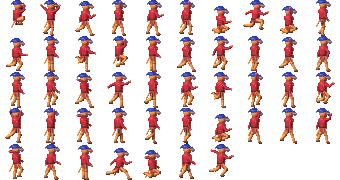
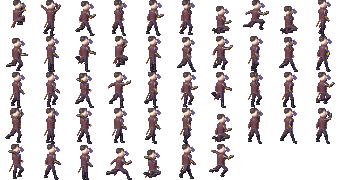
Kaspar neu gestaltet: aus dem Holz-Pinocchio mit Zipfelmütze wird ein düsterer Uhrwerk-Automat im Belle-Époque-Stil – Porzellangesicht, dunkles Haar mit Strähnen, ein Bernsteinauge, bordeauxbrauner Gehrock mit langen Schößen, hohem Kragen und Messingknöpfen über Hemd und Krawatte, ein Arm aus Messin

diff --git a/js/hero.js b/js/hero.js
@@ -28,6 +28,9 @@ const HEROES = (() => {
     belly: ['#3c4c14', '#6c7c28', '#a4ac48', '#d4d478', '#f4f4b4'],
     shield: ['#0c1444', '#1c2c84', '#2c48c4', '#5c7cf4', '#a4bcfc'],
     wood: ['#2c1608', '#5c3418', '#8c5a2c', '#b8844c', '#e0b07c'],
+    porc: ['#4c3c34', '#8c7868', '#b8a490', '#e0cfba', '#fcf4e8'], // Porzellan (Kaspar)
+    coat: ['#140a10', '#2c1820', '#4e3038', '#6c4450', '#8c6068'], // Gehrock
+    bootK: ['#06040a', '#16121a', '#2a2430', '#46404c', '#6c6474'],
     woodD: ['#1c0c04', '#3c200c', '#5c3418', '#7c4a24', '#9c6434'],
   };
 
@@ -40,7 +43,7 @@ const HEROES = (() => {
     zombie: ['..1121....', '.122g21...', '.gggggg2..', '1ggGGGGg..', '1gggkGGG..', '.ggGGrGGG.', '.gggGGGGG.', '..ggGmmG..', '...gGGG...', '....gg....'],
     fish: ['..rr......', '.rRrg.....', '.rgggggg..', 'rgGGGGGGg.', 'rgGGwkGGGg', '.gGGwwGGGG', '.gGGGGGmmm', '..gGGGGGG.', '...gggg...', '....gg....'],
     count: ['...1111...', '..111111..', '.11111111.', '.11pp1ppp.', '.1ppppppL.', '.1pprpprL.', '.1pppppPP.', '..pPppmp..', '...pppw...', '....pp....'],
-    kaspar: ['...1122...', '..122332..', '.12222332.', '.111111111', '.dWwwwwW..', '.dWwwewWnn', '.dWwrwwnnn', '.dWwwwwW..', '..dkkkkW..', '...dWWW...'],
+    kaspar: ['...11221..', '..1223321.', '.122333221', '.1222w2w2.', '.122dwwwW.', '.12dwwweW.', '.12dWwwwwW', '..1dWwwkW.', '...dWwwW..', '....dWW...'],
   };
   const EYE_ROW = 5;
 
@@ -62,16 +65,17 @@ const HEROES = (() => {
     icon: ['.1111..', '122221.', 'rrrrrr.', '1aesL..', '11sss..', '.111...'],
     iconPal: { 1: '#08040c', 2: '#241c30', r: '#c81c1c', a: '#9c5430', s: '#d88c5c', L: '#f4bc8c', e: '#000' },
   };
-  // Kaspar, die Marionette ohne Fäden: geschnitzt, mit langer Nase, roten Bäckchen und Zipfelmütze; dunkelrotes Wams mit
-  // Goldknöpfen, Kugelgelenke, an den Handgelenken die abgeschnittenen Fäden. Waffe: Hellebarde (größte Reichweite)
+  // Kaspar, die Marionette ohne Fäden, hat sich zum Uhrwerk-Automaten umgebaut: Porzellangesicht, dunkles Haar, ein
+  // Bernsteinauge; Gehrock mit langen Schößen und Messingknöpfen über Hemd und Krawatte, ein Arm aus Messing und Rotguss
+  // (3D-Figur: chars3d.js), Messing-Kugelgelenke, an den Handgelenken die abgeschnittenen Fäden. Waffe: Hellebarde
   const KASPAR = {
-    id: 'kaspar', head: 'kaspar', name: 'KASPAR', weapon: 'halberd', blink: 'w', hurtRow: '.dWwkkwWnn',
-    headPal: { 1: '#0c1430', 2: '#1c2c6c', 3: '#3c58b4', d: '#5c3418', W: '#a87440', w: '#d8a868', e: '#100808', r: '#c83c3c', n: '#c8945c', k: '#3c1c0c' },
-    skin: RAMP.wood, sleeve: RAMP.cloth, arm: { r: 1.6 }, thigh: RAMP.wood, boot: RAMP.woodD, legR: 0.9,
-    flap: RAMP.cloth, sash: RAMP.leather, flapTrim: RAMP.gold, torso: 'jerkin', belt: true, joints: true, strings: true, backPole: true,
-    scarf: { a: '#1c2c6c', b: '#3c58b4', d: '#0c1430', w: 2 }, // Zipfel der Mütze
-    icon: ['..122..', '.12232.', '1111111', '.Wwewnn', '.Wwrw..', '..kkW..'],
-    iconPal: { 1: '#0c1430', 2: '#1c2c6c', 3: '#3c58b4', W: '#a87440', w: '#d8a868', e: '#000', r: '#c83c3c', n: '#c8945c', k: '#3c1c0c' },
+    id: 'kaspar', head: 'kaspar', name: 'KASPAR', weapon: 'halberd', blink: 'w', hurtRow: '.12dwkkwW.',
+    headPal: { 1: '#141014', 2: '#2c2228', 3: '#4a3a40', d: '#7c6858', W: '#b8a490', w: '#e0cfba', e: '#f0a020', k: '#4c3434' },
+    skin: RAMP.porc, sleeve: RAMP.coat, arm: { r: 1.6 }, thigh: RAMP.noble, boot: RAMP.bootK, legR: 0.9,
+    flap: RAMP.coat, sash: RAMP.coat, flapTrim: RAMP.gold, torso: 'frock', joints: true, jointR: RAMP.gold, strings: true, backPole: true,
+    scarf: { a: '#6c1c2c', b: '#8c2838', d: '#2c0810', w: 2 }, // Krawattenschal weht
+    icon: ['..112..', '.12232.', '.12w2w.', '.1dwew.', '..dwwk.', '...dW..'],
+    iconPal: { 1: '#141014', 2: '#2c2228', 3: '#4a3a40', w: '#e0cfba', d: '#7c6858', W: '#b8a490', e: '#f0a020', k: '#4c3434' },
   };
   const MONSTERS = {
     skel: { id: 'skel', head: 'skull', headPal: { w: '#9c9478', W: '#e8e0c8', k: '#140c08' }, skin: RAMP.bone, arm: { r: 1.05 }, thigh: RAMP.bone, boot: RAMP.bone,
@@ -185,7 +189,7 @@ const HEROES = (() => {
         capsule(bx, by, A.hx - (A.hx - A.ex) * 0.12, A.hy - (A.hy - A.ey) * 0.12, ar - 0.05, ar - 0.15, def.arm.bracer, bias);
       }
       disc(A.hx, A.hy, Math.max(1.1, ar * 0.75), Math.max(1.1, ar * 0.75), def.skin, bias);
-      if (def.joints) disc(A.ex, A.ey, 1.15, 1.15, RAMP.woodD, bias + 0.2); // Kugelgelenk am Ellbogen
+      if (def.joints) disc(A.ex, A.ey, 1.15, 1.15, def.jointR || RAMP.woodD, bias + 0.2); // Kugelgelenk am Ellbogen
       if (def.strings) for (let k = 1; k <= 4; k++) P(A.hx + k * 0.15, A.hy + 1 + k, k % 2 ? '#d8d8e0' : '#a8a8b8'); // abgeschnittener Faden
     };
     const drawLeg = (L, bias) => {
@@ -194,7 +198,7 @@ const HEROES = (() => {
       if (lr > 0.8) capsule(L.kx, L.ky, L.kx + (L.ax - L.kx) * 0.18, L.ky + (L.ay - L.ky) * 0.18, 2.15 * lr, 2.05 * lr, def.boot, bias + 0.25); // Stulpe
       capsule(L.ax - 0.5, L.ay + 0.2, L.ax + 2.6, L.ay + 0.8, 1.4 * Math.max(lr, 0.8), 1.2 * Math.max(lr, 0.8), def.boot, bias); // Fuß
       for (let k = -1; k <= 3; k++) P(L.ax + k, L.ay + 2, def.boot[0]); // Sohle
-      if (def.joints) disc(L.kx, L.ky, 1.5 * lr, 1.5 * lr, RAMP.woodD, bias + 0.2); // Kugelgelenk am Knie
+      if (def.joints) disc(L.kx, L.ky, 1.5 * lr, 1.5 * lr, def.jointR || RAMP.woodD, bias + 0.2); // Kugelgelenk am Knie
     };
 
     // Umhang des Grafen (hinten): geschlossen eine Säule, offen wie Fledermausflügel mit rotem Futter
@@ -234,6 +238,11 @@ const HEROES = (() => {
           else if (def.torso === 'scales') { ramp = nx > 0.25 ? RAMP.belly : RAMP.fish; if ((pxi + yr) % 3 === 0) l -= 0.25; }
           else if (def.torso === 'suit') { ramp = (yr <= 15 && nx > 0.3 - (yr - 10) * 0.04) ? RAMP.shirt : RAMP.noble; }
           else if (def.torso === 'jerkin') { ramp = RAMP.cloth; if (Math.abs(nx - 0.32) < 0.13 && yr % 3 === 1) ramp = RAMP.gold; else if (yr === 10) ramp = RAMP.wood; } // Wams mit Goldknöpfen, Holzhals
+          else if (def.torso === 'frock') { // Gehrock: oben Hemd und Krawatte im Ausschnitt, darunter Messingknöpfe
+            ramp = RAMP.coat;
+            if (yr <= 13 && nx > 0.35 - (yr - 10) * 0.08) ramp = (yr === 11 && nx > 0.55) ? RAMP.cloth : RAMP.shirt;
+            else if (Math.abs(nx - 0.42) < 0.12 && yr >= 14 && yr % 2 === 0) ramp = RAMP.gold;
+          }
           else if (def.torso === 'ribs') {
             if (yr % 2 === 1 && Math.abs(nx) > 0.15) continue; // Lücken zwischen den Rippen
             ramp = RAMP.bone; if (Math.abs(nx + 0.1) < 0.18) l += 0.2; // Wirbelsäule

diff --git a/index.html b/index.html
@@ -68,7 +68,7 @@
   <div class="tbtn" id="tStart" data-k="start">II</div>
   <div class="tbtn" id="tFull" data-k="full" aria-label="Vollbild"><svg viewBox="0 0 18 18" fill="none" stroke="currentColor" stroke-width="2"><path d="M1 6V1h5M12 1h5v5M17 12v5h-5M6 17H1v-5"/></svg></div>
 </div>
-<script>window.BUILD = '20261019-2315';
+<script>window.BUILD = '20261019-2346';
 // Lädt ein Spielskript nicht (z. B. kurzer 503 von GitHub Pages direkt nach einem Update), einmal automatisch neu laden
 window.addEventListener('error', function (e) {
   var el = e.target;
@@ -78,36 +78,36 @@ window.addEventListener('error', function (e) {
 }, true);
 window.addEventListener('load', function () { setTimeout(function () { try { sessionStorage.removeItem('nachtmahr.retry'); } catch (err) { /* privat */ } }, 8000); });
 </script>
-<script src="js/boot.js?v=20261019-2315"></script>
-<script src="js/view.js?v=20261019-2315"></script>
-<script src="js/options.js?v=20261019-2315"></script>
-<script src="js/i18n.js?v=20261019-2315"></script>
-<script src="js/font.js?v=20261019-2315"></script>
-<script src="js/sprites.js?v=20261019-2315"></script>
-<script src="js/sprites2.js?v=20261019-2315"></script>
-<script src="js/hero.js?v=20261019-2315"></script>
-<script src="js/chars3d.js?v=20261019-2315"></script>
-<script src="js/audio.js?v=20261019-2315"></script>
-<script src="js/voice.js?v=20261019-2315"></script>
-<script src="js/input.js?v=20261019-2315"></script>
-<script src="js/levels.js?v=20261019-2315"></script>
-<script src="js/ps2.js?v=20261019-2315"></script>
-<script src="js/tiles.js?v=20261019-2315"></script>
-<script src="js/fx.js?v=20261019-2315"></script>
-<script src="js/entities.js?v=20261019-2315"></script>
-<script src="js/enemies.js?v=20261019-2315"></script>
-<script src="js/grand.js?v=20261019-2315"></script>
-<script src="js/props.js?v=20261019-2315"></script>
-<script src="js/drama.js?v=20261019-2315"></script>
-<script src="js/mode7.js?v=20261019-2315"></script>
-<script src="js/bosses.js?v=20261019-2315"></script>
-<script src="js/expo.js?v=20261019-2315"></script>
-<script src="js/ballroom.js?v=20261019-2315"></script>
-<script src="js/coach.js?v=20261019-2315"></script>
-<script src="js/sprites16.js?v=20261019-2315"></script>
-<script src="js/creatures3d.js?v=20261019-2315"></script>
-<script src="js/world.js?v=20261019-2315"></script>
-<script src="js/scores.js?v=20261019-2315"></script>
-<script src="js/game.js?v=20261019-2315"></script>
+<script src="js/boot.js?v=20261019-2346"></script>
+<script src="js/view.js?v=20261019-2346"></script>
+<script src="js/options.js?v=20261019-2346"></script>
+<script src="js/i18n.js?v=20261019-2346"></script>
+<script src="js/font.js?v=20261019-2346"></script>
+<script src="js/sprites.js?v=20261019-2346"></script>
+<script src="js/sprites2.js?v=20261019-2346"></script>
+<script src="js/hero.js?v=20261019-2346"></script>
+<script src="js/chars3d.js?v=20261019-2346"></script>
+<script src="js/audio.js?v=20261019-2346"></script>
+<script src="js/voice.js?v=20261019-2346"></script>
+<script src="js/input.js?v=20261019-2346"></script>
+<script src="js/levels.js?v=20261019-2346"></script>
+<script src="js/ps2.js?v=20261019-2346"></script>
+<script src="js/tiles.js?v=20261019-2346"></script>
+<script src="js/fx.js?v=20261019-2346"></script>
+<script src="js/entities.js?v=20261019-2346"></script>
+<script src="js/enemies.js?v=20261019-2346"></script>
+<script src="js/grand.js?v=20261019-2346"></script>
+<script src="js/props.js?v=20261019-2346"></script>
+<script src="js/drama.js?v=20261019-2346"></script>
+<script src="js/mode7.js?v=20261019-2346"></script>
+<script src="js/bosses.js?v=20261019-2346"></script>
+<script src="js/expo.js?v=20261019-2346"></script>
+<script src="js/ballroom.js?v=20261019-2346"></script>
+<script src="js/coach.js?v=20261019-2346"></script>
+<script src="js/sprites16.js?v=20261019-2346"></script>
+<script src="js/creatures3d.js?v=20261019-2346"></script>
+<script src="js/world.js?v=20261019-2346"></script>
+<script src="js/scores.js?v=20261019-2346"></script>
+<script src="js/game.js?v=20261019-2346"></script>
 </body>
 </html>
